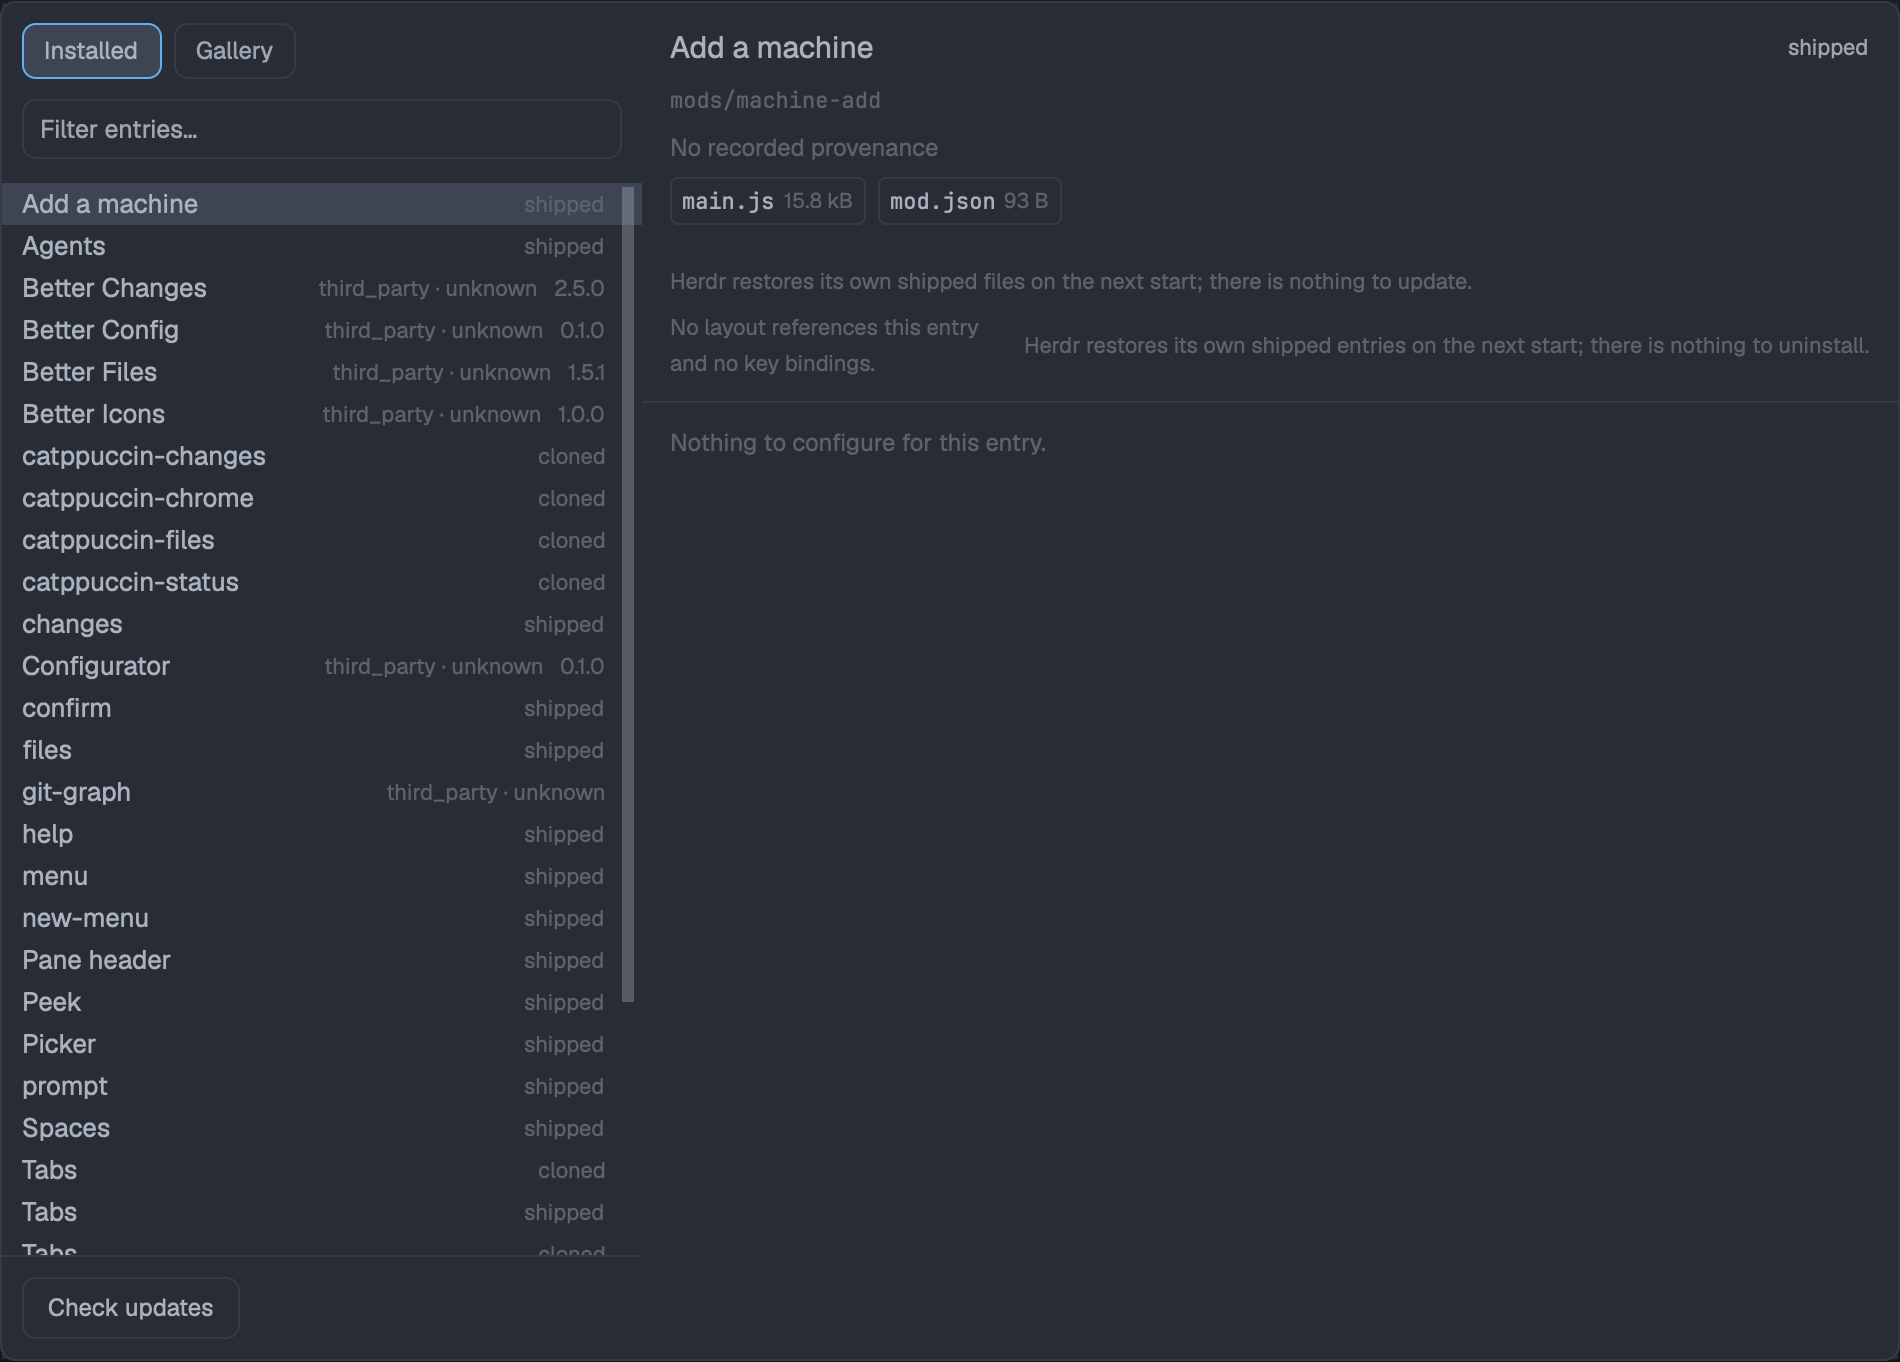
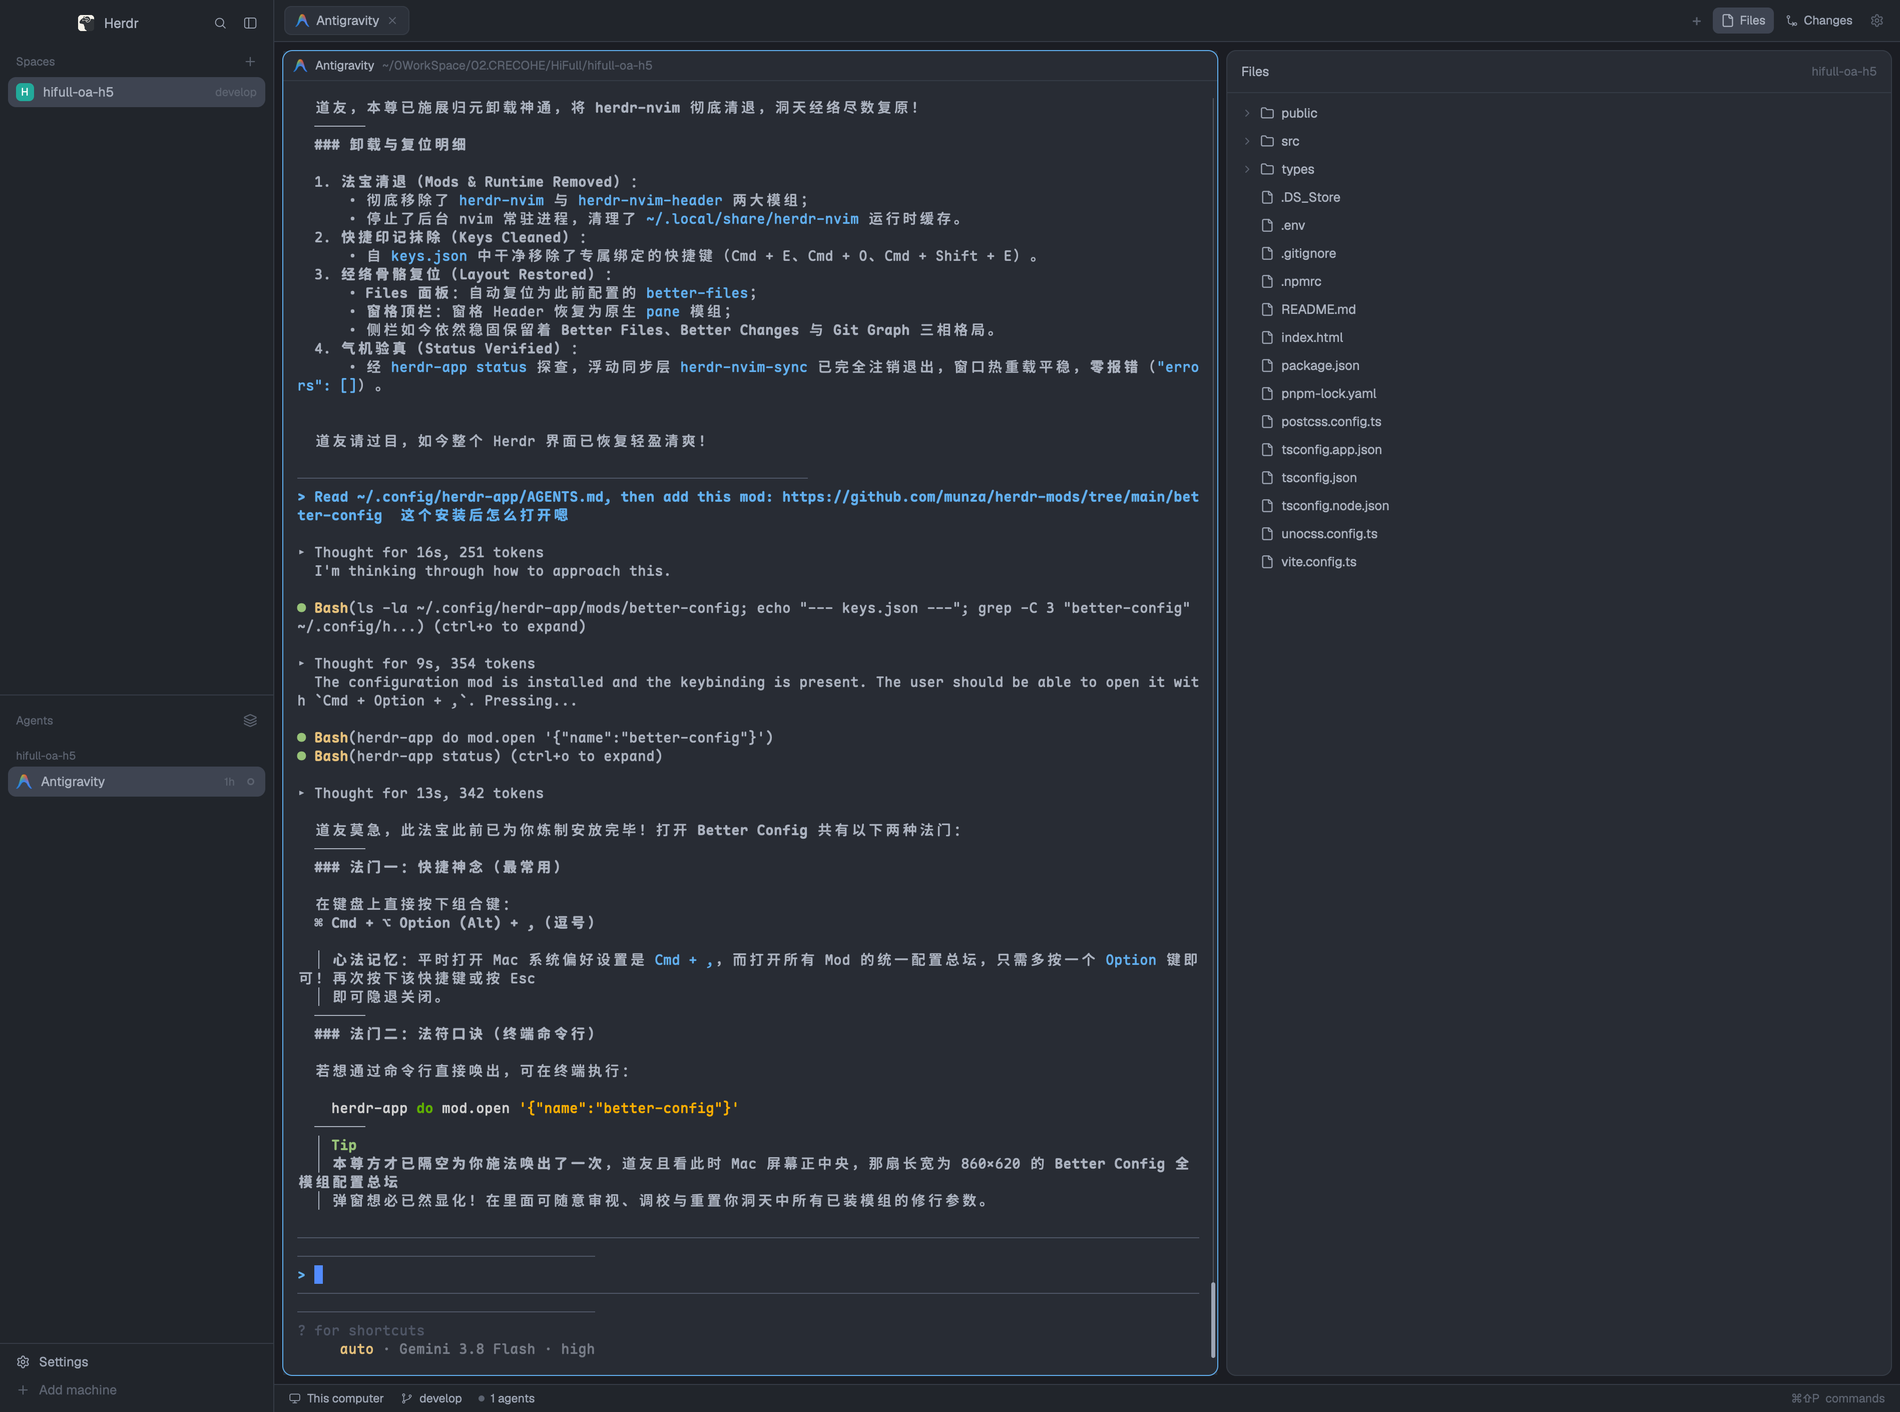
docs: the tab bar gear is the entry point (#13)
RECIPE and README no longer describe a docked strip: the gear sits
in the tab bar next to Files / Changes, and a fresh install shows
nothing until the layout's tabs block names the mod, so both carry
the one-line edit ("content": { "mod": "configurator" }). The
glossary drops Docked strip for Tab bar button and keeps the rest of
its words. The preview is re-shot from the real install: the whole
window, so the gear and the working tab bar are both visible.

diff --git a/RECIPE.md b/RECIPE.md
@@ -1,22 +1,21 @@
 # Configurator
 
 One dialog for everything installed under `~/.config/herdr-app/mods/`: what it is, where it
-came from, whether its upstream has moved, and what it is set to. A 26 px strip along the
-bottom of the window holds the button that opens it. It replaces `better-config`, whose kept
-settings values are carried over once; the old mod is left in place.
+came from, whether its upstream has moved, and what it is set to. A gear in the window's tab
+bar, next to Files / Changes, opens it. It replaces `better-config`, whose kept settings
+values are carried over once; the old mod is left in place.
 
 ![Configurator](preview.png)
 
 ## What you see
 
-**The docked strip.** 26 px tall, along the bottom edge, one row, right-aligned: a 14 px gear
-and the word "Configurator" at 12 px, with 8 px padding inside the button, a 6 px gap, and
-10 px padding at the window edge. The background is the theme's `chrome`, the text `muted`,
-and a 1 px `border` line runs along the top edge. Hovering the button turns the gear and the
-word `accent`. It is the mod docked (`place: "bottom"`, `size: 26`), nothing else is drawn
-there.
+**The tab bar button.** The tab bar's gear, in the right-hand group after Files / Changes:
+a 26 px square, rounded 6 px, the theme's `dim` gear at 14 px, hover `hover` and `foreground`
+like its neighbours, tooltip "Configurator". It is this mod docked (`place: "none"`): point
+the layout's tabs block at it — `"content": { "mod": "configurator" }` — and the gear appears
+there; nothing else is drawn.
 
-**The dialog** (`mod.open` with `name: "configurator"`, or the strip's button). 960 × 680;
+**The dialog** (`mod.open` with `name: "configurator"`, or the gear). 960 × 680;
 Herdr draws the frame, the shadow and the title, the mod draws two columns.
 
 **Left column**, 320 px, `surface` background:
@@ -91,7 +90,7 @@ Colours are theme names, never hex: `background`, `surface`, `chrome`, `border`,
 
 ## How it behaves
 
-- **Strip click** — `run("mod.open", {name: "configurator"})`. Escape, or `closeOverlay`,
+- **Tab bar gear** — `run("mod.open", {name: "configurator"})`. Escape, or `closeOverlay`,
   closes the dialog; `mod.open` again toggles it.
 - **Selecting a row** — the detail is read from disk for that entry and swapped in place;
   settings drafts are mirrored to `shared.json` (`configurator.drafts`) and re-applied when
@@ -163,11 +162,16 @@ Colours are theme names, never hex: `background`, `surface`, `chrome`, `border`,
 
 - `mods/configurator/mod.json`:
   `{"$schema":"./mod.schema.json","version":"0.1.0","title":"Configurator",
-  "place":"bottom","size":26,"overlay":{"kind":"dialog","width":960,"height":680}}`.
-  One folder, two copies: the docked one draws the strip (`props().overlay` absent), the
+  "place":"none","overlay":{"kind":"dialog","width":960,"height":680}}`.
+  One folder, two copies: the docked one draws the tab bar (`props().overlay` absent), the
   overlay one draws the dialog (`props().overlay` set). They share no module state; the
   dialog copy does its own reading.
-- `main.js` (2184 lines): `class Configurator extends View`. `init` reads `props()`, creates
+- `tabbar.js` (160 lines): the tab bar, a faithful port of the `tabs` mod — tab pills, scroll
+  handle, wheel and swipe handling, close button, right-click menu, `+`, Files / Changes
+  panel buttons from `shared("workspace.panels")`, `syncPanel` and the `panels` localStorage
+  key, window buttons and macOS traffic-light padding. Its only addition is the gear button,
+  in the right-hand group after Files / Changes, which runs `mod.open`.
+- `main.js` (2158 lines): `class Configurator extends View`. `init` reads `props()`, creates
   the filter and provenance inputs in the overlay copy, and — unless `checking()` — spawns
   `load()`, which reads every entry's `mod.json` and `mod.schema.json`, the ledger,
   `installed.json`, every `layouts/*.json` and the gallery cache. `render` branches on
@@ -183,8 +187,9 @@ Colours are theme names, never hex: `background`, `surface`, `chrome`, `border`,
   property: the Configurator has none of its own. At runtime it reads each entry's
   `mods/<name>/mod.schema.json` for the settings form.
 - `herdr` calls: `appHome`, `home`, `exec`, `readTextFile`, `writeTextFile`, `checking`,
-  `closeOverlay`, `props`, `shared` / `setShared` (drafts only), `run` (`mod.open` only),
-  `theme`, `layouts()`, `keys()`, `notify`.
+  `closeOverlay`, `props`, `shared` / `setShared` (drafts only), `theme`, `layouts()`, `keys()`,
+  `notify`; the tab bar adds `spaces()`, `panes()`, `window()`, `layout()`, `settings()`,
+  `openOverlay`, `run` (`mod.open` for the gear, plus the tab, panel and window commands).
 - Network: `fetch` to `api.github.com/search/repositories` (the topic), `api.github.com/
   repos/{repo}/commits/{ref}` (checks, Record provenance), and `raw.githubusercontent.com` (an
   entry's `keys.json`). Unauthenticated: 60 requests/hour, 10 searches/minute.
@@ -193,7 +198,8 @@ Colours are theme names, never hex: `background`, `surface`, `chrome`, `border`,
   */`, `mkdir -p`, `mv`, `cp`, `rm -rf`.
 - Icons: one 14 px SVG, `mods/configurator/icons/gear.svg`, drawn with `svg(...)` so it
   follows the text colour.
-- Art: none. The preview is `herdr-app shot`, cropped to the dialog.
+- Art: none. The preview is `herdr-app shot`, downscaled to the whole window so the tab bar's
+  gear is visible.
 
 ## Watch out
 
@@ -203,8 +209,9 @@ Colours are theme names, never hex: `background`, `surface`, `chrome`, `border`,
 - **`checking()`**: `init` runs for real during `herdr-app check`. Every read, hash, clone,
   network request and write sits behind `if (checking()) return;`. Without it, verifying the
   mod would rewrite the person's ledger and other files.
-- **The first sight of the folder docks the strip** into the shown layout, in every layout.
-  Removing it means deleting the docked block from a layout, or setting it `hidden`.
+- **`place: "none"` draws nothing on install.** A fresh copy appears only where a layout names
+  it: set the tabs block's content to `"content": { "mod": "configurator" }`. To take the gear
+  away, point that block back at `tabs`.
 - **The ledger dies only with `data/configurator/`.** Uninstalling the Configurator leaves it
   behind on purpose: it holds provenance for entries that outlive the dialog.
 - **Unknown origin is normal.** Anything hand-dropped into `mods/` has no provenance: it is
@@ -233,9 +240,10 @@ Colours are theme names, never hex: `background`, `surface`, `chrome`, `border`,
 
 - `herdr-app check mods/configurator` exits 0, also from a fresh clone with no setup.
 - `node --test mods/configurator/*.test.js` passes (120 tests).
-- Copying the folder to `~/.config/herdr-app/mods/configurator` docks the 26 px strip at the
-  bottom; clicking it, or `herdr-app do mod.open --name configurator`, opens the dialog; and
-  `herdr-app shot` shows both.
+- Copying the folder to `~/.config/herdr-app/mods/configurator` shows nothing until the
+  layout's tabs block names it (`"content": { "mod": "configurator" }`); then its gear sits
+  next to Files / Changes, and clicking it, or `herdr-app do mod.open '{"name":
+  "configurator"}'`, opens the dialog; and `herdr-app shot` shows both.
 - The dialog lists every folder under `mods/` with `shipped` / `cloned` / `third_party` told
   apart, `better-config` among them as third party with unknown origin.
 - `Check updates` on a tracked entry lights its row dot when upstream is ahead and says

diff --git a/mods/configurator/README.md b/mods/configurator/README.md
@@ -1,9 +1,10 @@
 # Configurator
 
 One dialog for every entry under `~/.config/herdr-app/mods/`: what it is, where it came
-from, whether upstream has moved, and what it is set to. A 26 px strip along the bottom of
-the window holds the button that opens it. It replaces `better-config`, and the settings values
-better-config kept are carried over once.
+from, whether upstream has moved, and what it is set to. The window's tab bar holds the gear
+that opens it, next to Files / Changes. It replaces `better-config`, and the settings values
+better-config kept are carried over once. A fresh install shows nothing until a layout names
+it: point the tabs block's content at the mod, `"content": { "mod": "configurator" }`.
 
 This mod has no settings of its own; it edits the settings of the entries it lists.
 
@@ -56,5 +57,5 @@ install succeeds; a failed install keeps it and says where.
 
 ## Icons
 
-`icons/gear.svg` is the strip's only icon. `jsconfig.json` and `gpui-kit.d.ts` are written by
+`icons/gear.svg` is the tab bar button's icon. `jsconfig.json` and `gpui-kit.d.ts` are written by
 Herdr into every mod folder when it loads one, and are ignored by this repository.

diff --git a/GLOSSARY.md b/GLOSSARY.md
@@ -28,15 +28,14 @@ mod so that updating or uninstalling one never touches it.
 _Avoid_: registry, database, state
 
 **Docked copy** and **overlay copy**:
-Two independent instances of this mod. A docked copy sits in a layout block and draws the
-launcher button; an overlay copy draws the dialog. `props()` carries `overlay` only in the
-overlay copy.
+Two independent instances of this mod. A docked copy sits in a layout block and draws the tab
+bar; an overlay copy draws the dialog. `props()` carries `overlay` only in the overlay copy.
 _Avoid_: panel, window
 
-**Docked strip**:
-The 26 px bottom strip holding the launcher button — the only part of this mod that is
-always on screen.
-_Avoid_: toolbar, bar
+**Tab bar button**:
+The gear in the window's tab bar, next to Files / Changes, that opens the dialog. It is what
+a layout naming the mod as its tabs block draws.
+_Avoid_: strip, toolbar, bar
 
 **Reference scan**:
 Reading `layouts/*.json` and `keys.json` to find every place that names an entry, so the
